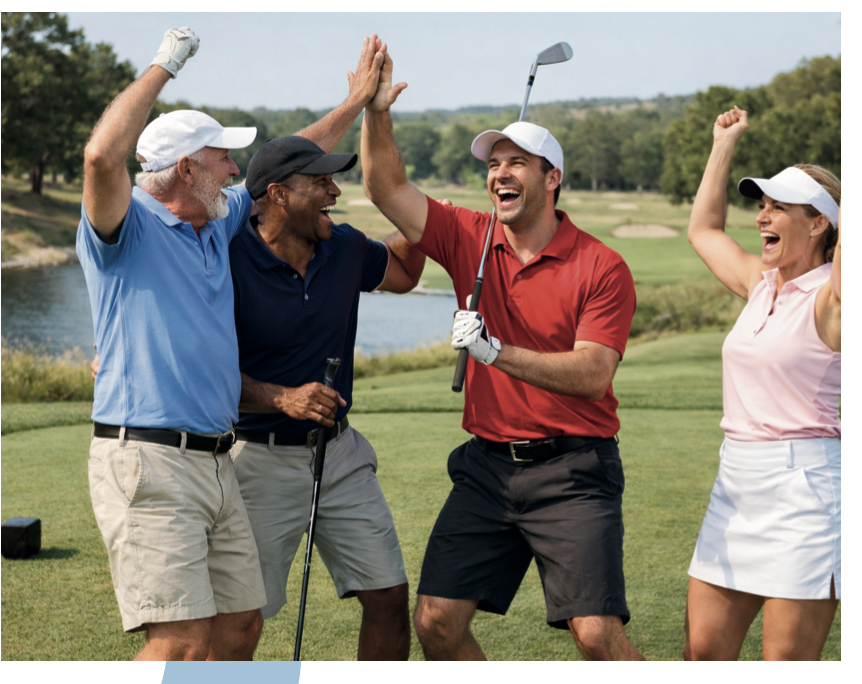
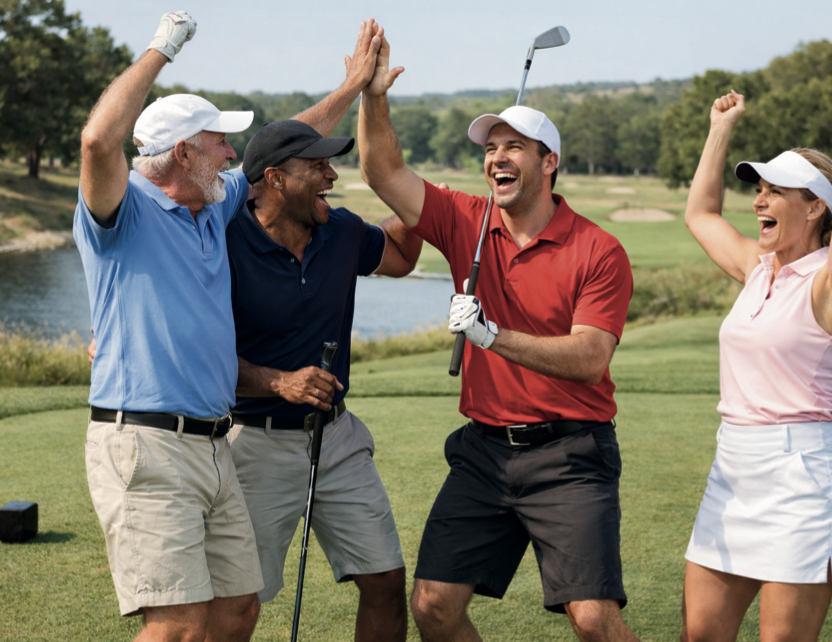
Consolidate Stanford into single listing with parentheses hole format

diff --git a/src/components/HoleDetailsForm/HoleDetailsForm.tsx b/src/components/HoleDetailsForm/HoleDetailsForm.tsx
@@ -41,9 +41,11 @@ function formatDisplayDate(isoDate: string) {
   return `${month}/${day}/${year}`
 }
 
+const ALL_LABELS = COURSE_OPTIONS.map((o) => o.label)
+
 function HoleDetailsForm({ order, onFieldChange, onFlagChange, onNext }: HoleDetailsFormProps) {
   const [isCustomCourse, setIsCustomCourse] = useState(
-    Boolean(order.course) && !COURSE_OPTIONS.includes(order.course),
+    Boolean(order.course) && !ALL_LABELS.includes(order.course),
   )
   const [isCustomClub, setIsCustomClub] = useState(
     Boolean(order.club) && !CLUB_OPTIONS.includes(order.club),
@@ -67,13 +69,21 @@ function HoleDetailsForm({ order, onFieldChange, onFlagChange, onNext }: HoleDet
   }
 
   const handleCourseSelect = (event: ChangeEvent<HTMLSelectElement>) => {
-    const value = event.currentTarget.value
-    if (value === 'Other') {
+    const label = event.currentTarget.value
+    if (label === 'Other') {
       setIsCustomCourse(true)
       onFieldChange('course', '')
+      onFieldChange('hole', '')
     } else {
       setIsCustomCourse(false)
-      onFieldChange('course', value)
+      onFieldChange('course', label)
+      // Auto-populate hole from preset if available
+      const selected = COURSE_OPTIONS.find((o) => o.label === label)
+      if (selected?.course.hole) {
+        onFieldChange('hole', selected.course.hole)
+      } else {
+        onFieldChange('hole', '')
+      }
     }
   }
 
@@ -87,6 +97,11 @@ function HoleDetailsForm({ order, onFieldChange, onFlagChange, onNext }: HoleDet
       onFieldChange('club', value)
     }
   }
+
+  // Determine if the selected listing has a preset (locked) hole number
+  const selectedOption = COURSE_OPTIONS.find((o) => o.label === order.course)
+  const hasPresetHole = Boolean(selectedOption?.course.hole)
+
 
   return (
     <div className="hole-details-form">
@@ -105,9 +120,9 @@ function HoleDetailsForm({ order, onFieldChange, onFlagChange, onNext }: HoleDet
           <option value="" disabled>
             Select a course…
           </option>
-          {COURSE_OPTIONS.map((course) => (
-            <option key={course} value={course}>
-              {course}
+          {COURSE_OPTIONS.map((opt) => (
+            <option key={opt.label} value={opt.label}>
+              {opt.label}
             </option>
           ))}
         </select>
@@ -134,6 +149,8 @@ function HoleDetailsForm({ order, onFieldChange, onFlagChange, onNext }: HoleDet
                 onChange={handleInput('hole')}
                 maxLength={200}
                 required
+                readOnly={hasPresetHole}
+                style={hasPresetHole ? { opacity: 0.6, cursor: 'not-allowed' } : undefined}
               />
             </label>
 

diff --git a/src/lib/courses.ts b/src/lib/courses.ts
@@ -5,23 +5,37 @@ export type Course = {
   priceCents: number
   /** Whether local pickup is available for this course */
   localPickup: boolean
+  /** Pre-set hole number for specific single-hole listings (locks the hole input) */
+  hole?: string
 }
 
 export const COURSES: Course[] = [
-  { name: 'DeLaveaga Golf Course',         state: 'CA', priceCents:  5000, localPickup: true  },
+  { name: 'DeLaveaga Golf Course',           state: 'CA', priceCents: 5000, localPickup: true,  hole: '5' },
   { name: 'Stanford University Golf Course', state: 'CA', priceCents: 5000, localPickup: false },
-  { name: 'Other' ,                        state: '',   priceCents:  5000, localPickup: true  },
+  { name: 'Other',                           state: '',   priceCents: 5000, localPickup: true  },
 ]
 
-/** Flat list of course names for use in dropdowns */
-export const COURSE_OPTIONS: string[] = COURSES.map((c) => c.name)
+/**
+ * Unique display labels for the course dropdown.
+ * Single-hole courses show "Course Name (Hole N)".
+ */
+export const COURSE_OPTIONS: { label: string; course: Course }[] = [
+  { label: 'DeLaveaga Golf Course (Hole 5)',           course: COURSES[0] },
+  { label: 'Stanford University Golf Course (Holes 4 & 8)', course: COURSES[1] },
+  { label: 'Other',                                    course: COURSES[2] },
+]
 
-/** Look up a course by name, returning undefined if not found. */
+/** Look up a course by its display label, returning undefined if not found. */
+export function getCourseByLabel(label: string): Course | undefined {
+  return COURSE_OPTIONS.find((o) => o.label === label)?.course
+}
+
+/** Look up a course by name (returns first match), returning undefined if not found. */
 export function getCourse(name: string): Course | undefined {
   return COURSES.find((c) => c.name === name)
 }
 
-/** Set of course names that offer local pickup (for quick membership checks) */
+/** Set of display labels that offer local pickup (for quick membership checks) */
 export const LOCAL_PICKUP_COURSE_NAMES = new Set(
-  COURSES.filter((c) => c.localPickup).map((c) => c.name),
+  COURSE_OPTIONS.filter((o) => o.course.localPickup).map((o) => o.label),
 )

diff --git a/src/lib/pricing.ts b/src/lib/pricing.ts
@@ -4,14 +4,14 @@
 // Shipping options and pickup eligibility are also derived from courses.ts.
 // ---------------------------------------------------------------------------
 
-import { getCourse, LOCAL_PICKUP_COURSE_NAMES } from './courses'
+import { getCourseByLabel, LOCAL_PICKUP_COURSE_NAMES } from './courses'
 
 /** Default product price in cents, used when a course is not in the list. */
 export const DEFAULT_PRODUCT_PRICE_CENTS = 5000
 
-/** Returns the product price in cents for the given course name. */
-export function getCoursePriceCents(courseName: string): number {
-  return getCourse(courseName)?.priceCents ?? DEFAULT_PRODUCT_PRICE_CENTS
+/** Returns the product price in cents for the given course label. */
+export function getCoursePriceCents(courseLabel: string): number {
+  return getCourseByLabel(courseLabel)?.priceCents ?? DEFAULT_PRODUCT_PRICE_CENTS
 }
 
 export type ShippingMethod = 'pickup' | 'standard'
@@ -40,14 +40,14 @@ export const SHIPPING_OPTIONS: ShippingOption[] = [
 ]
 
 /**
- * Courses that offer local pickup.
+ * Course labels that offer local pickup.
  * Derived from courses.ts — do not edit here.
  */
 export const LOCAL_PICKUP_COURSES = LOCAL_PICKUP_COURSE_NAMES
 
-export function getAvailableShippingOptions(courseName: string): ShippingOption[] {
-  const isStanford = courseName === 'Stanford University Golf Course'
-  
+export function getAvailableShippingOptions(courseLabel: string): ShippingOption[] {
+  const isStanford = courseLabel.startsWith('Stanford University Golf Course')
+
   return SHIPPING_OPTIONS.filter((opt) => {
     if (opt.id === 'standard' && !isStanford) {
       return false

diff --git a/server/index.js b/server/index.js
@@ -15,19 +15,27 @@ const CURRENCY = process.env.STRIPE_CURRENCY || 'usd'
 const DEFAULT_PRODUCT_PRICE_CENTS = 5000
 const SHIPPING_RATES = { pickup: 0, standard: 1500 }
 
-// Mirrors src/lib/courses.ts — keep in sync when courses change.
+// Mirrors src/lib/courses.ts COURSE_OPTIONS — keep in sync when courses change.
+// Keys are the full display labels used in order.course.
 const COURSE_PRICES = {
-  'DeLaveaga Golf Course':           5000,
-  'Stanford University Golf Course': 5000,
-  'Other':                           5000,
+  'DeLaveaga Golf Course (Hole 5)':                5000,
+  'Stanford University Golf Course (Holes 4 & 8)': 5000,
+  'Other':                                         5000,
 }
 
 function getCoursePriceCents(courseName) {
   return COURSE_PRICES[courseName] ?? DEFAULT_PRODUCT_PRICE_CENTS
 }
 
-function getShippingCents(courseName, shippingMethod) {
-  return SHIPPING_RATES[shippingMethod] ?? SHIPPING_RATES.standard
+function getShippingCents(courseLabel, shippingMethod) {
+  const isStanford = courseLabel.startsWith('Stanford University Golf Course')
+  if (isStanford && shippingMethod === 'standard') {
+    return SHIPPING_RATES.standard
+  }
+  if (!isStanford && shippingMethod === 'standard') {
+    return 0 // standard shipping not offered for non-Stanford; pickup only
+  }
+  return SHIPPING_RATES[shippingMethod] ?? 0
 }
 
 function getTotalCents(courseName, shippingMethod, promoCode) {

diff --git a/src/components/About/About.tsx b/src/components/About/About.tsx
@@ -19,7 +19,7 @@ function About() {
         <p className="about__paragraph">
           Click "Order Your Personal Celebration," enter the details of your shot
           (course name, hole number, yardage, club, and date), and your model will be
-          built to order and shipped within five days.
+          built to order and shipped within seven days.
         </p>
 
         <p className="about__paragraph about__paragraph--emphasis">

diff --git a/src/pages/Order/Order.tsx b/src/pages/Order/Order.tsx
@@ -39,7 +39,7 @@ function Order() {
 
     return {
       ...INITIAL_ORDER,
-      course: courseParam && COURSE_OPTIONS.includes(courseParam) ? courseParam : INITIAL_ORDER.course,
+      course: courseParam && COURSE_OPTIONS.some((o) => o.label === courseParam) ? courseParam : INITIAL_ORDER.course,
       hole: holeParam ?? INITIAL_ORDER.hole,
     }
   })
